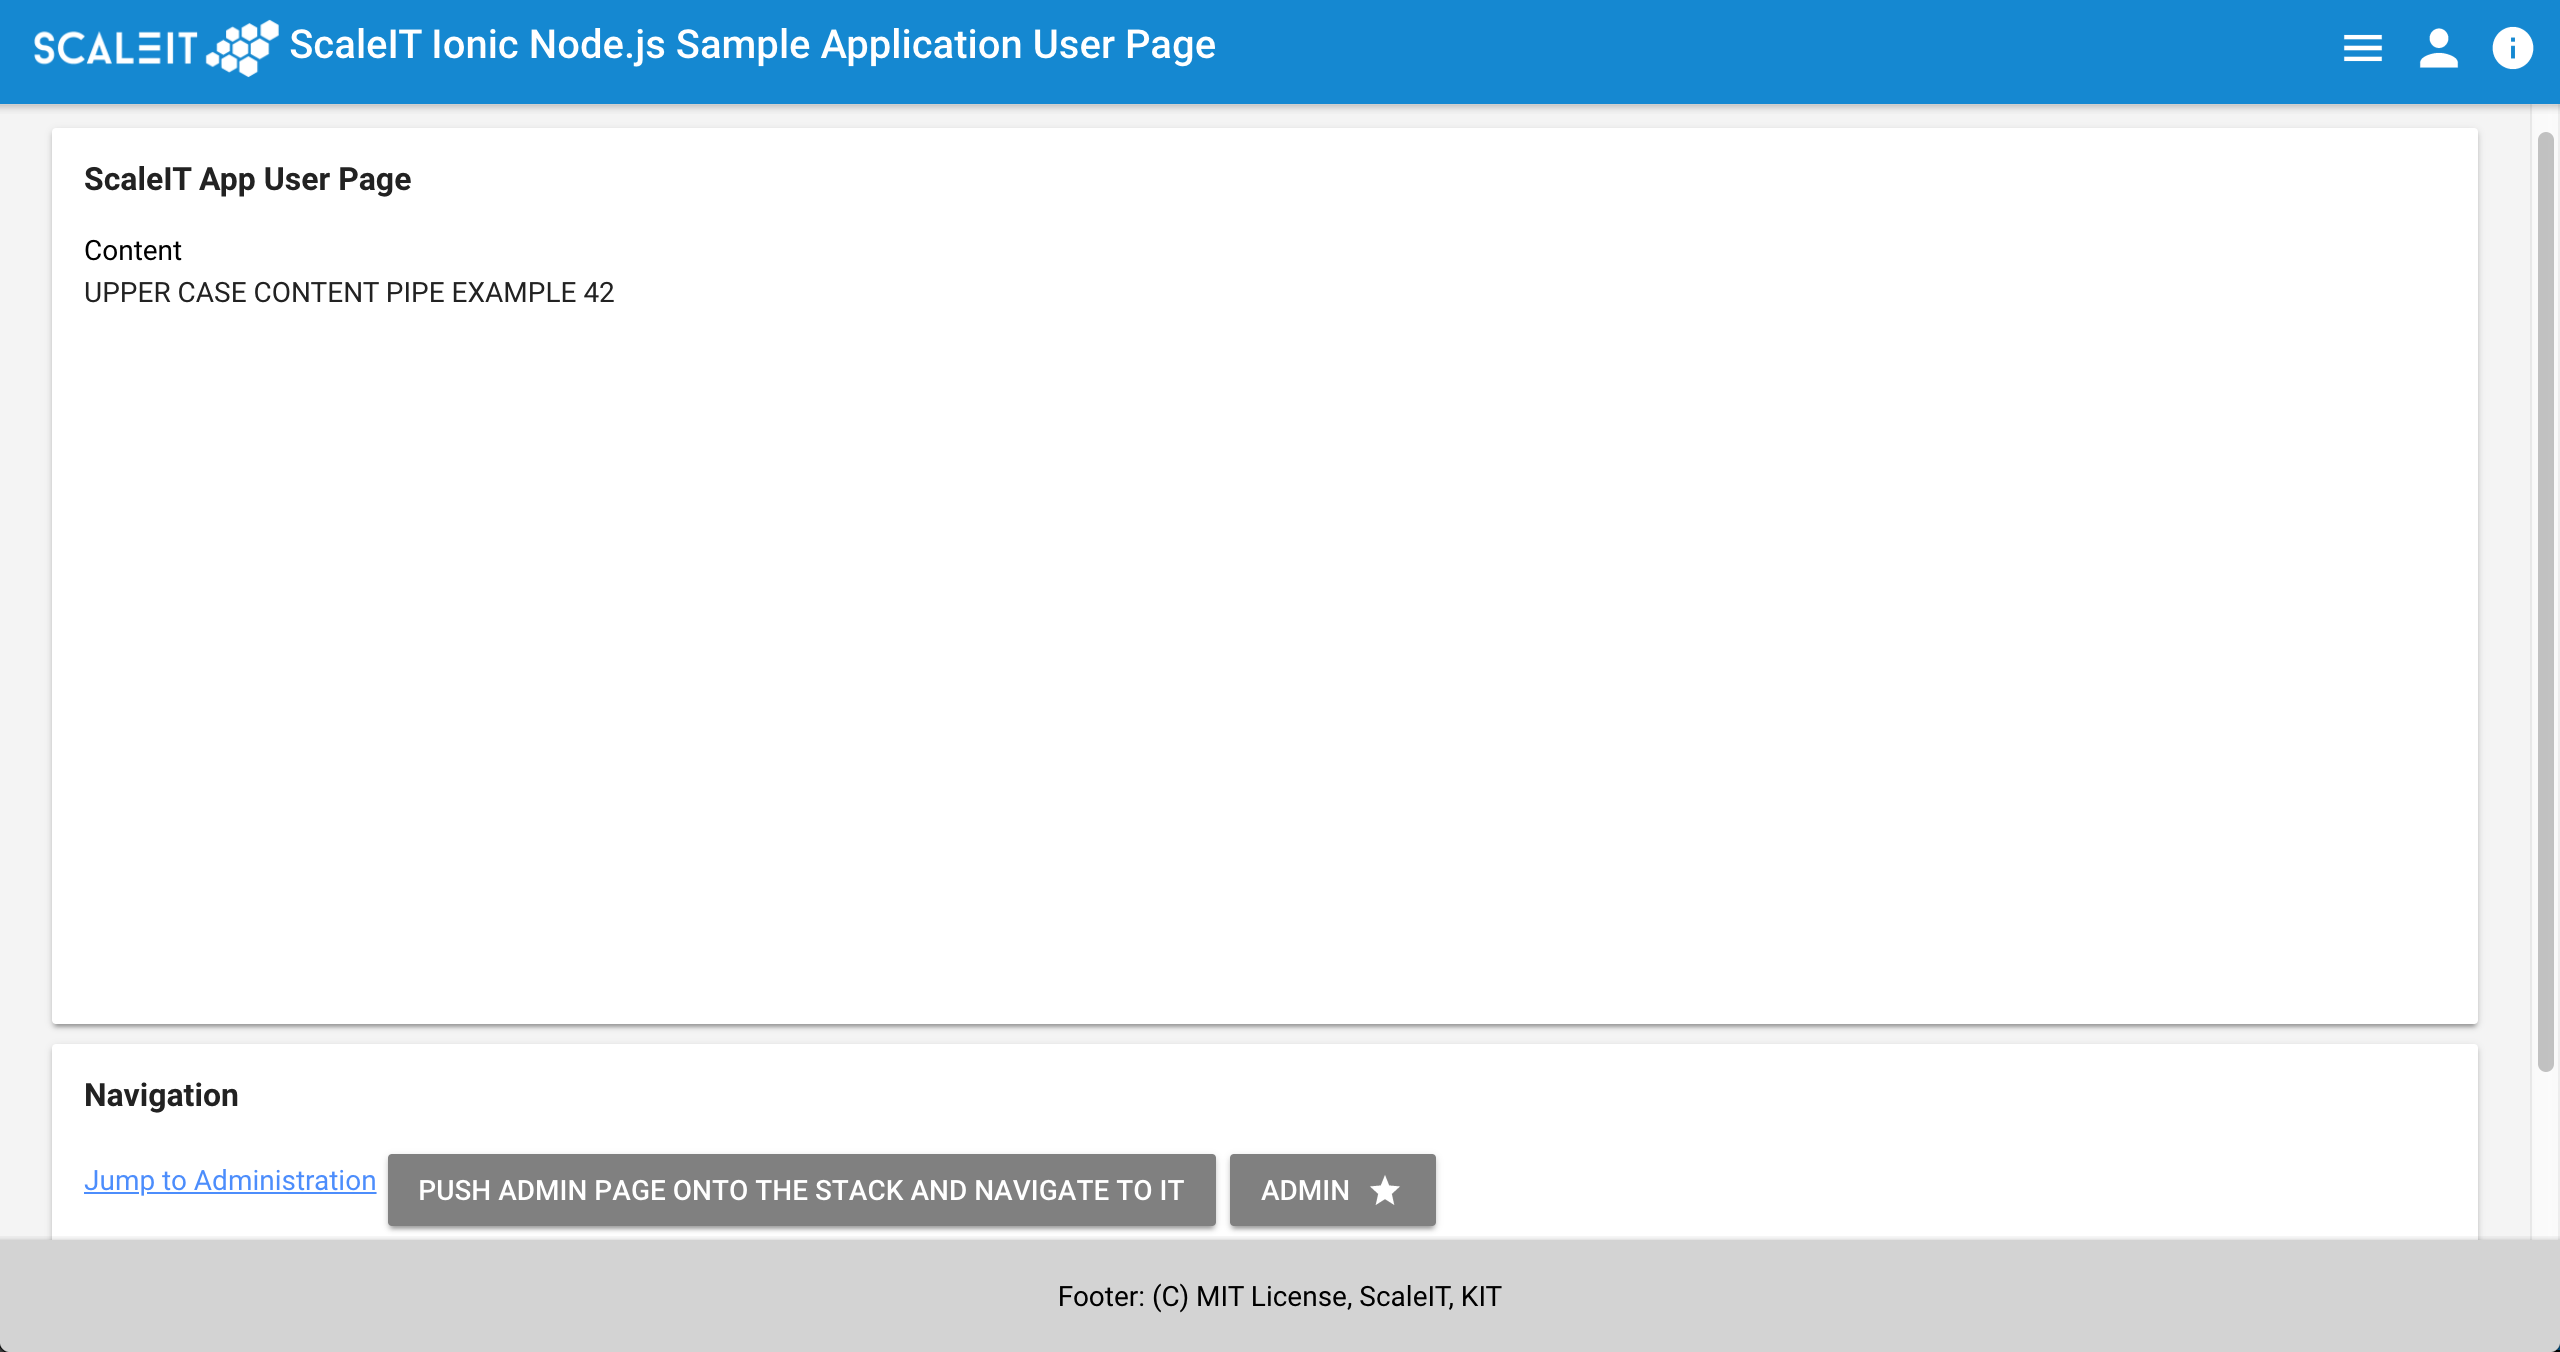
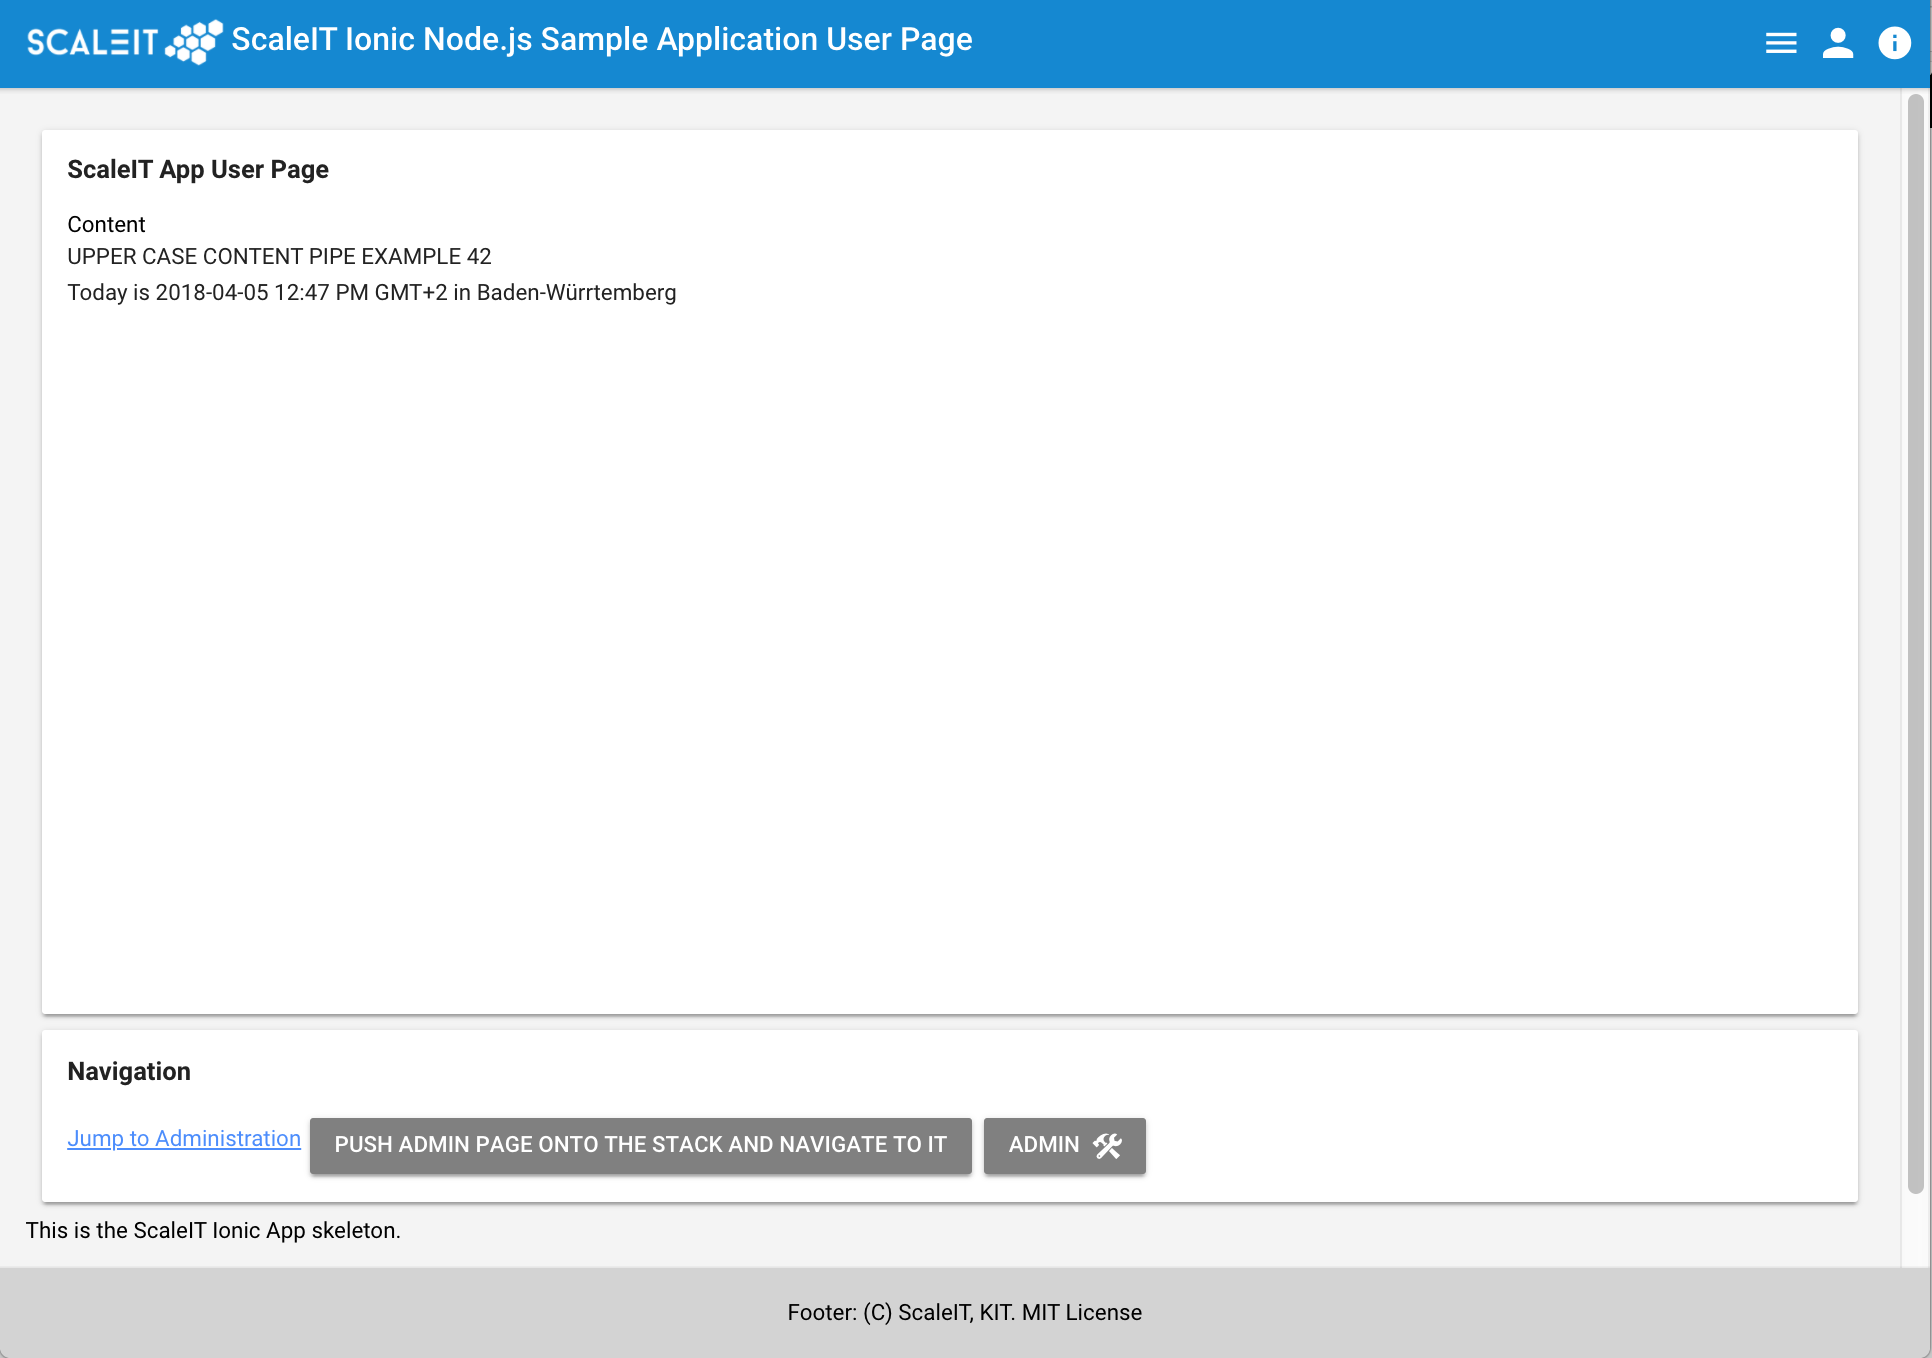
fixed 14; angular date pipe example for local time conversion

Changed region(s): [[0.0, 0.0, 1.0, 1.0]]

diff --git a/src/pages/home/home.ts b/src/pages/home/home.ts
@@ -1,19 +1,19 @@
-import { IonicPage } from 'ionic-angular';
-import { Component } from '@angular/core';
-import { NavController } from 'ionic-angular';
+import { IonicPage } from "ionic-angular";
+import { Component } from "@angular/core";
+import { NavController } from "ionic-angular";
 
 @IonicPage({
-  name:"user",
+  name: "user",
   segment: "user"
 })
 @Component({
-  selector: 'page-home',
-  templateUrl: 'home.html'
+  selector: "page-home",
+  templateUrl: "home.html"
 })
 export class HomePage {
+  today: number;
 
   constructor(public navCtrl: NavController) {
-
+    this.today = Date.now();
   }
-
 }

diff --git a/src/pages/home/home.html b/src/pages/home/home.html
@@ -12,6 +12,7 @@
       Content
       <p>{{"upper case content pipe example 42" | metricConverter}}
       </p>
+      <p>Today is {{ today| date:'yyyy-MM-dd HH:mm a z':'GMT+2'}} in Baden-Würrtemberg</p>
 
 
     </ion-card-content>
